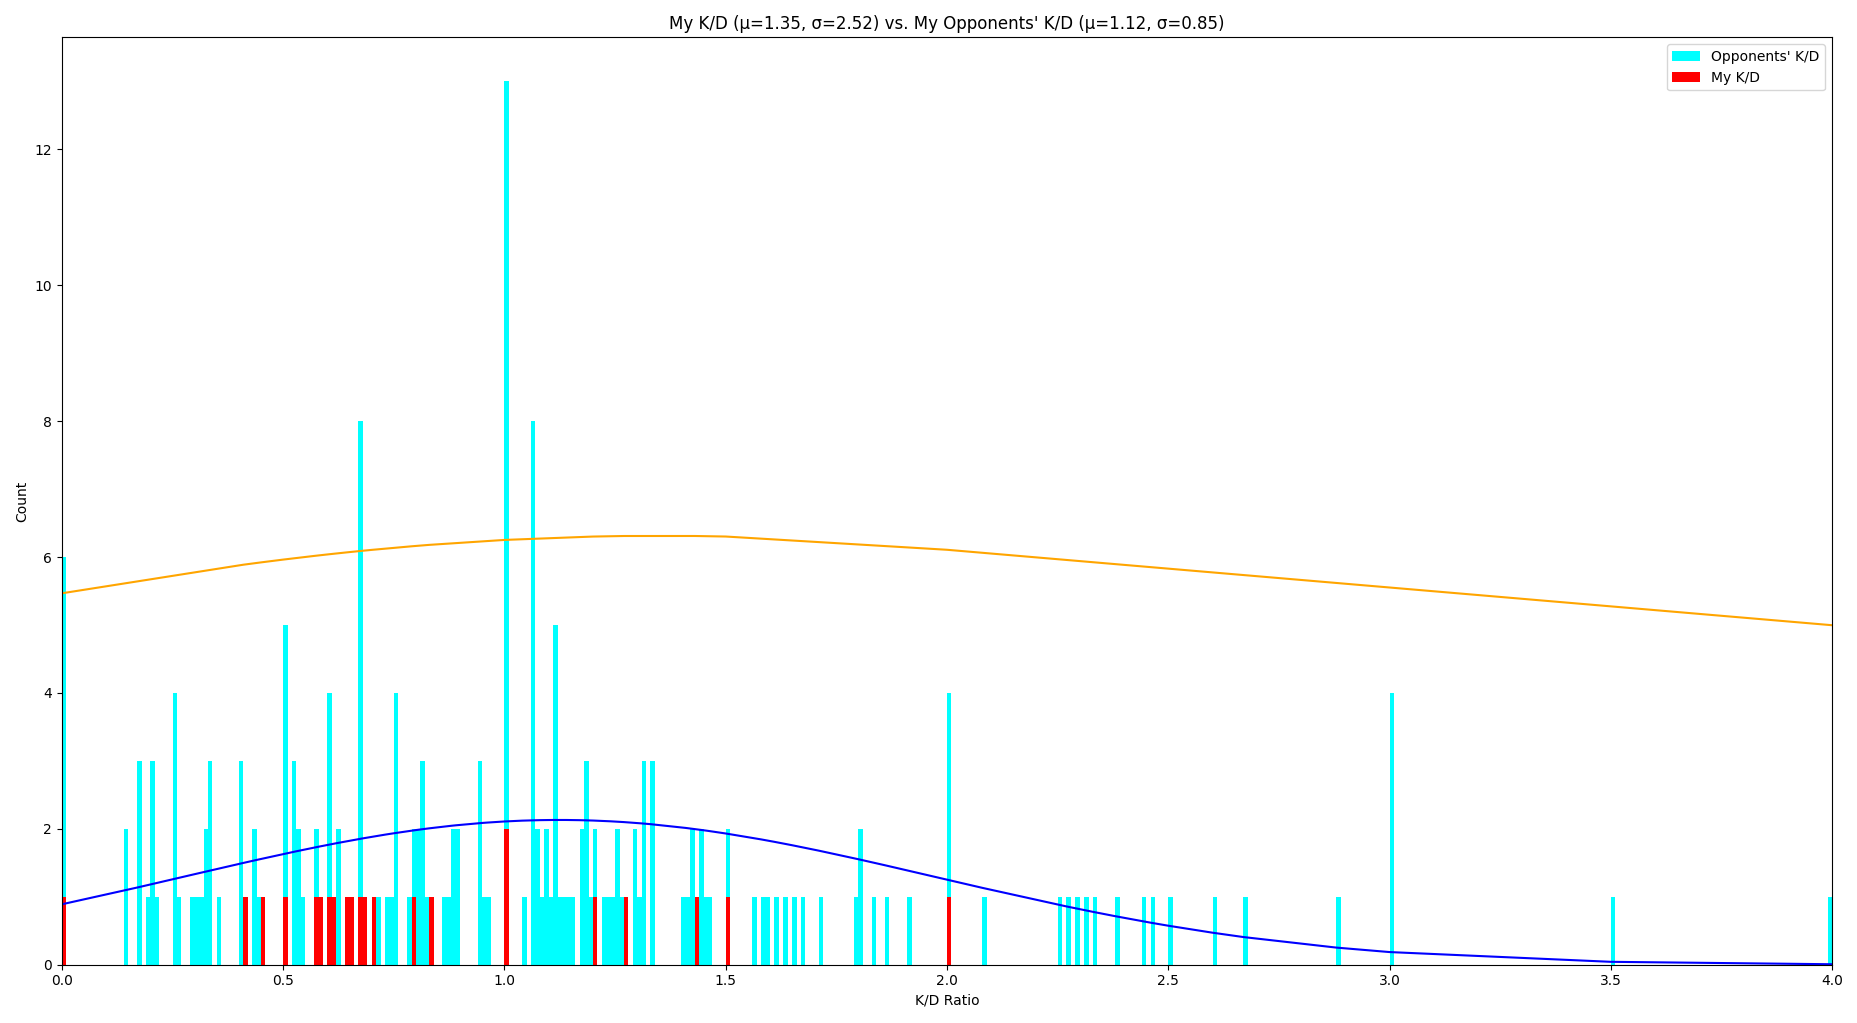
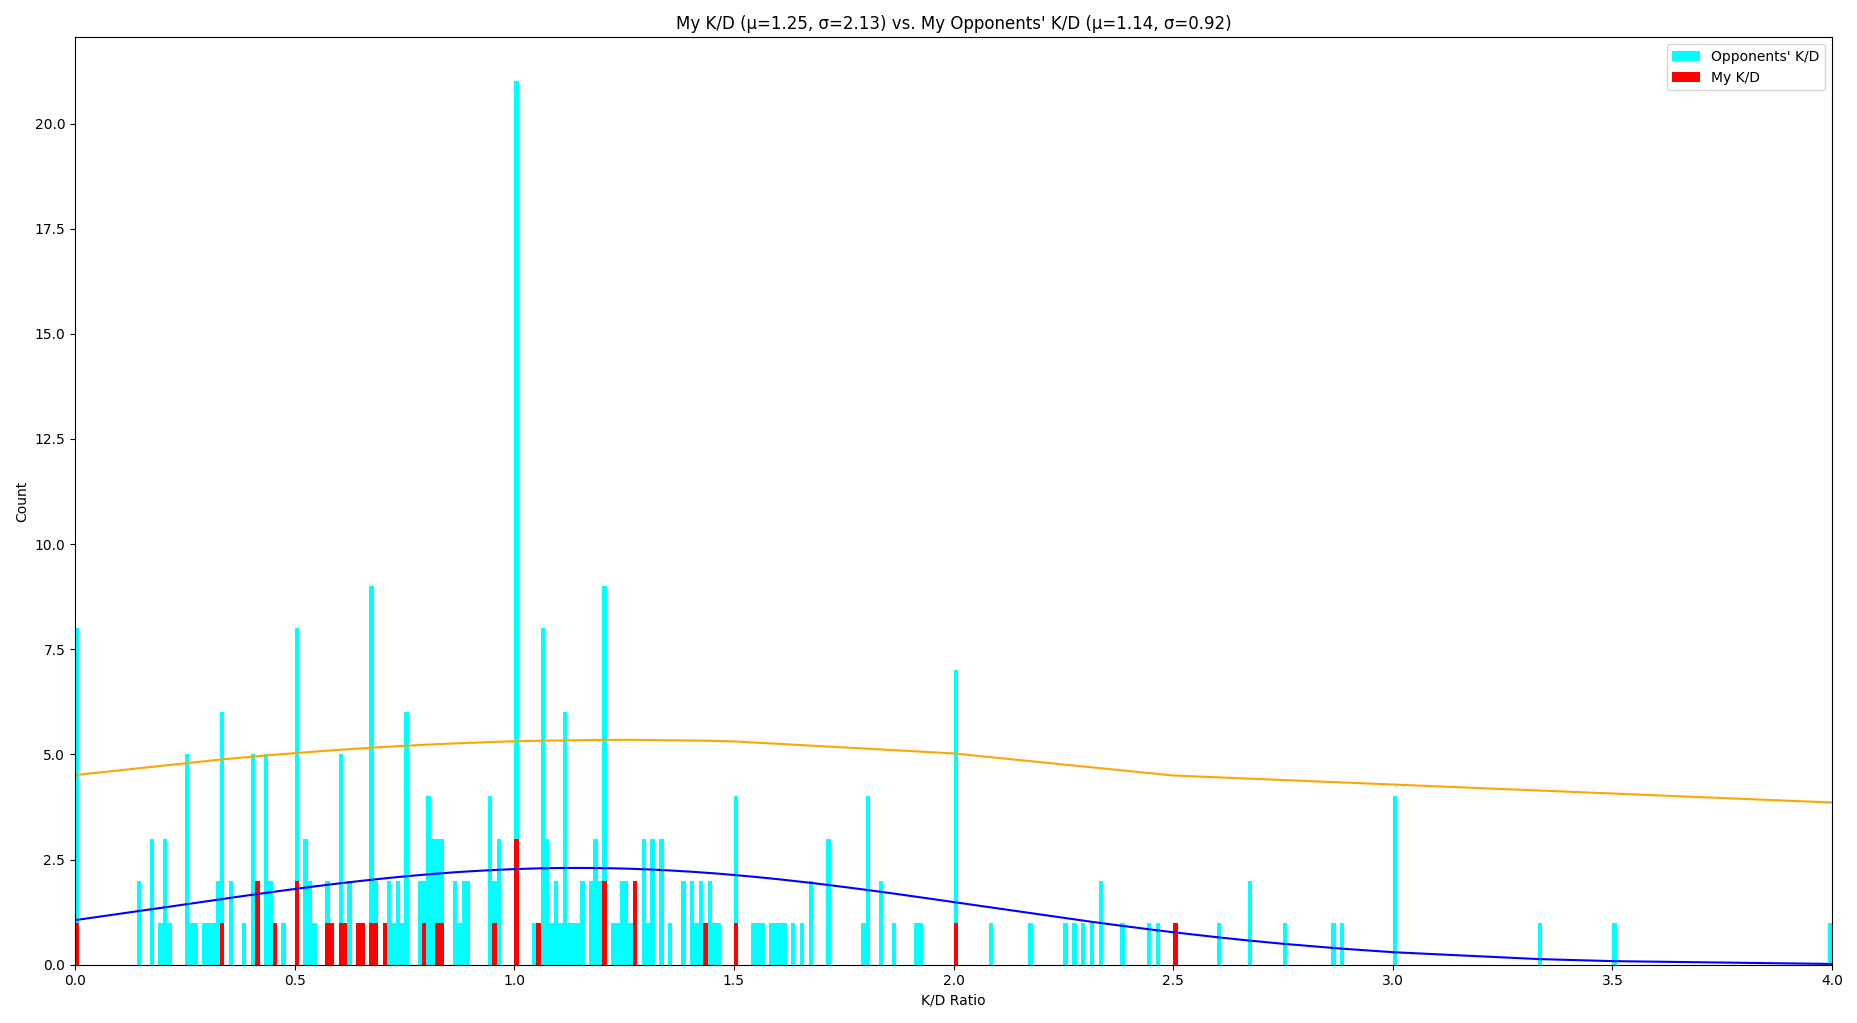
Aight final commit, this is making me too competitive

diff --git a/main.py b/main.py
@@ -1,8 +1,11 @@
 import numpy as np
 import matplotlib.pyplot as plt
 
-myData = np.loadtxt("data.csv", delimiter=",", skiprows=1, usecols=(0), max_rows = 23, encoding="utf-8")    # Change max_rows according to length to ignore empty cells
+myData = np.loadtxt("data.csv", delimiter=",", skiprows=1, usecols=(0), max_rows = 33, encoding="utf-8")    # Change max_rows according to length to ignore empty cells
 generalData = np.loadtxt("data.csv", delimiter=",", skiprows=1, usecols=(1), encoding="utf-8")
+
+myData = np.sort(myData)
+generalData = np.sort(generalData)
 
 rangeBins = np.array(range(0,401))/100
 myDataAverage = np.average(myData)
